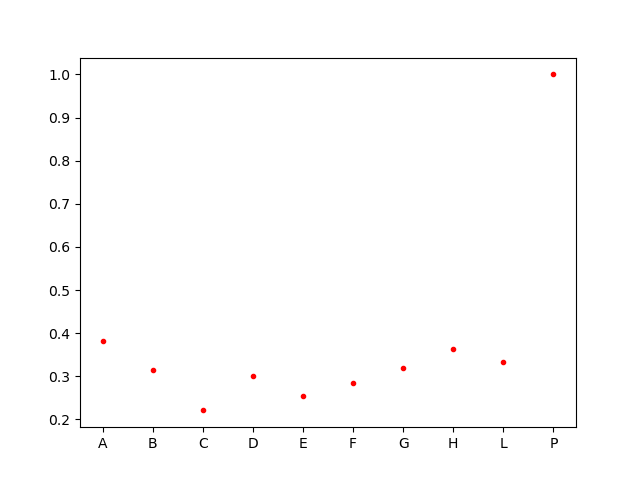
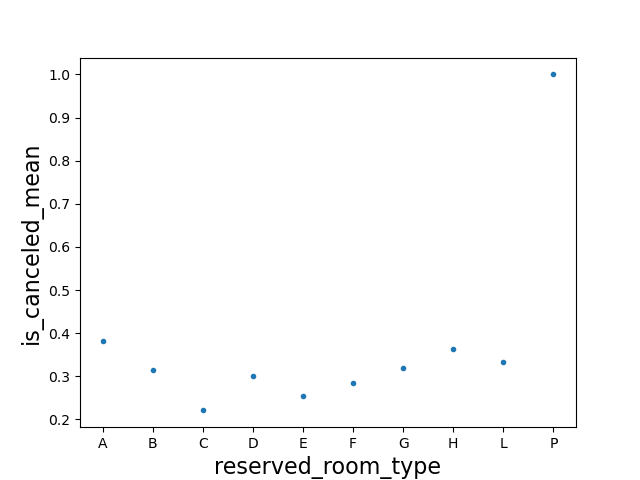
Update 1/18

diff --git a/plot.py b/plot.py
@@ -18,10 +18,10 @@ print(data_insight.train_df.arrival_date_day_of_month)
 
 attribute_list = list(data_insight.train_df.columns.values)[:-2]
 for attribute in attribute_list:
-    data_insight.plot_test(attribute)
+    # data_insight.plot_test(attribute)
     # data_insight.plot_attribute_adr(attribute)
     # data_insight.plot_attribute_adr_mean(attribute)
-    # data_insight.plot_attribute_is_canceled_mean(attribute)
+    data_insight.plot_attribute_is_canceled_mean(attribute)
 
 
 # data_insight.plot_attribute_adr_mean("lead_time")

diff --git a/data_insight.py b/data_insight.py
@@ -82,7 +82,9 @@ class DataInsight():
             num_list.append(num)
             # print("average of {} = {}, which has {} samples".format(i, avg, num))
         plt.figure()
-        plt.plot(attribute_element, avg_list, 'r.')
+        plt.plot(attribute_element, avg_list, '.')
+        plt.xlabel(attribute, fontsize=16)
+        plt.ylabel('is_canceled_mean', fontsize=16)
         plt.savefig("./data_is_canceled_analysis/img/{}_is_canceled_mean.png".format(attribute))
 
     def compare_train_test(self, attribute):

diff --git a/main.py b/main.py
@@ -73,7 +73,7 @@ for only_attribute in remove_only_list:
 # ------
 
 clf = TheRandomForest(x_train_is_canceled, y_train_is_canceled, x_test_is_canceled)
-clf.v_fold_validate()
+# clf.v_fold_validate()
 
 clf.train()
 is_canceled_df = clf.predict()
@@ -115,7 +115,7 @@ for only_attribute in remove_only_list:
 
 
 reg = TheRandomForestRegressor(x_train_adr, y_train_adr, x_test_adr)
-reg.v_fold_validate()
+# reg.v_fold_validate()
 
 reg.train()
 adr_df = reg.predict()
